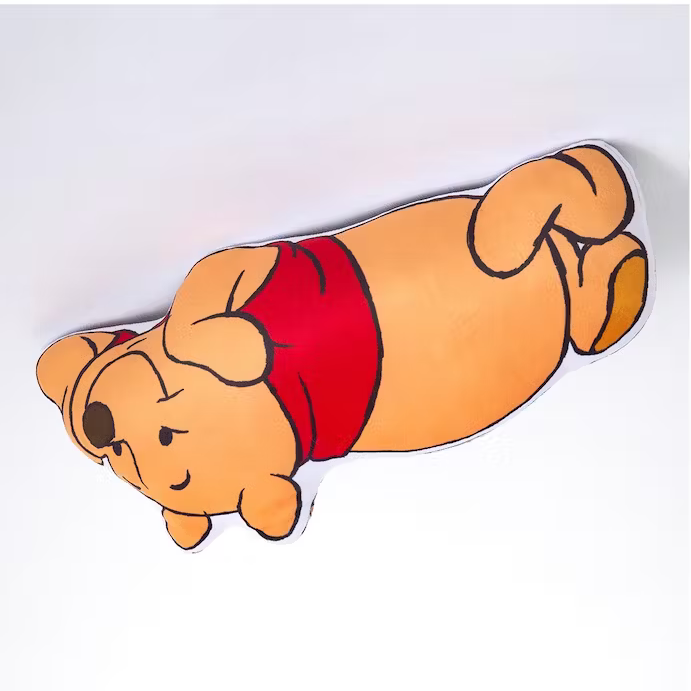
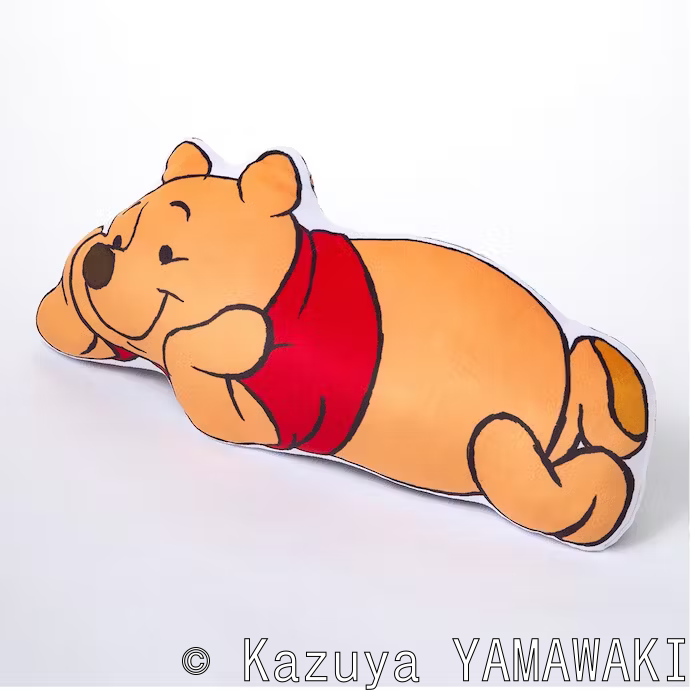
update

diff --git a/pages/api/hello.ts b/pages/api/hello.ts
@@ -1,17 +1,17 @@
 // Next.js API route support: https://nextjs.org/docs/api-routes/introduction
 //import * as fs from 'fs';
-import fsPromises from 'fs/promises';
-import path from 'path';
-import sharp from 'sharp';
-import text2svg from 'text-to-svg';
+import fsPromises from "fs/promises";
+import path from "path";
+import sharp from "sharp";
+import text2svg from "text-to-svg";
 
 async function genSvgStr(str: string) {
   const svgOptions = {
     x: 0,
     y: 0,
-    fontSize: 40,
-    anchor: 'left  top',
-    attributes: { fill: 'white', stroke: 'black' },
+    fontSize: 60,
+    anchor: "left  top",
+    attributes: { fill: "white", stroke: "black" },
   };
   const svgBuffer = await text2svg.loadSync().getSVG(str, svgOptions);
   console.log(svgBuffer);
@@ -19,10 +19,10 @@ async function genSvgStr(str: string) {
 }
 
 export default async (req, res) => {
-  const imageDir = path.join(process.cwd(), 'images');
-  const img_in_path: string = imageDir + '/pooh.avif';
-  const img_out_path: string = imageDir + '/conv1.png';
-  const outputText = 'Kazuya YAMAWAKI';
+  const imageDir = path.join(process.cwd(), "images");
+  const img_in_path: string = imageDir + "/pooh.avif";
+  const img_out_path: string = imageDir + "/conv1.png";
+  const outputText = "© Kazuya YAMAWAKI";
 
   //元画像の読み込み
   const img = await sharp(img_in_path);
@@ -34,17 +34,17 @@ export default async (req, res) => {
   await img
     .composite([
       {
-        input: Buffer.from(overlay),
-        gravity: 'center',
+        input: Buffer.from(await genSvgStr(outputText)),
+        gravity: "southeast",
       },
     ])
     .png()
     .toFile(img_out_path);
 
   //画像を反転させてコピー
-  const resultImg = await img.clone().flip().toFile(img_out_path);
+  //const resultImg = await img.clone().flip().toFile(img_out_path);
   // await img.clone().flop().toFile(img_out_path);
 
   //生成したファイルのパスを返す
-  res.status(200).json({ resultPath: resultImg.path });
+  res.status(200).json({ resultPath: "" });
 };

diff --git a/README.md b/README.md
@@ -1,3 +1,7 @@
+npm install && npx next dev
+https://note.affi-sapo-sv.com/nodejs-sharp.php
+https://blog.kozakana.net/2019/04/sharp-image-processing/
+
 This is a [Next.js](https://nextjs.org/) project bootstrapped with [`create-next-app`](https://github.com/vercel/next.js/tree/canary/packages/create-next-app).
 
 ## Getting Started
